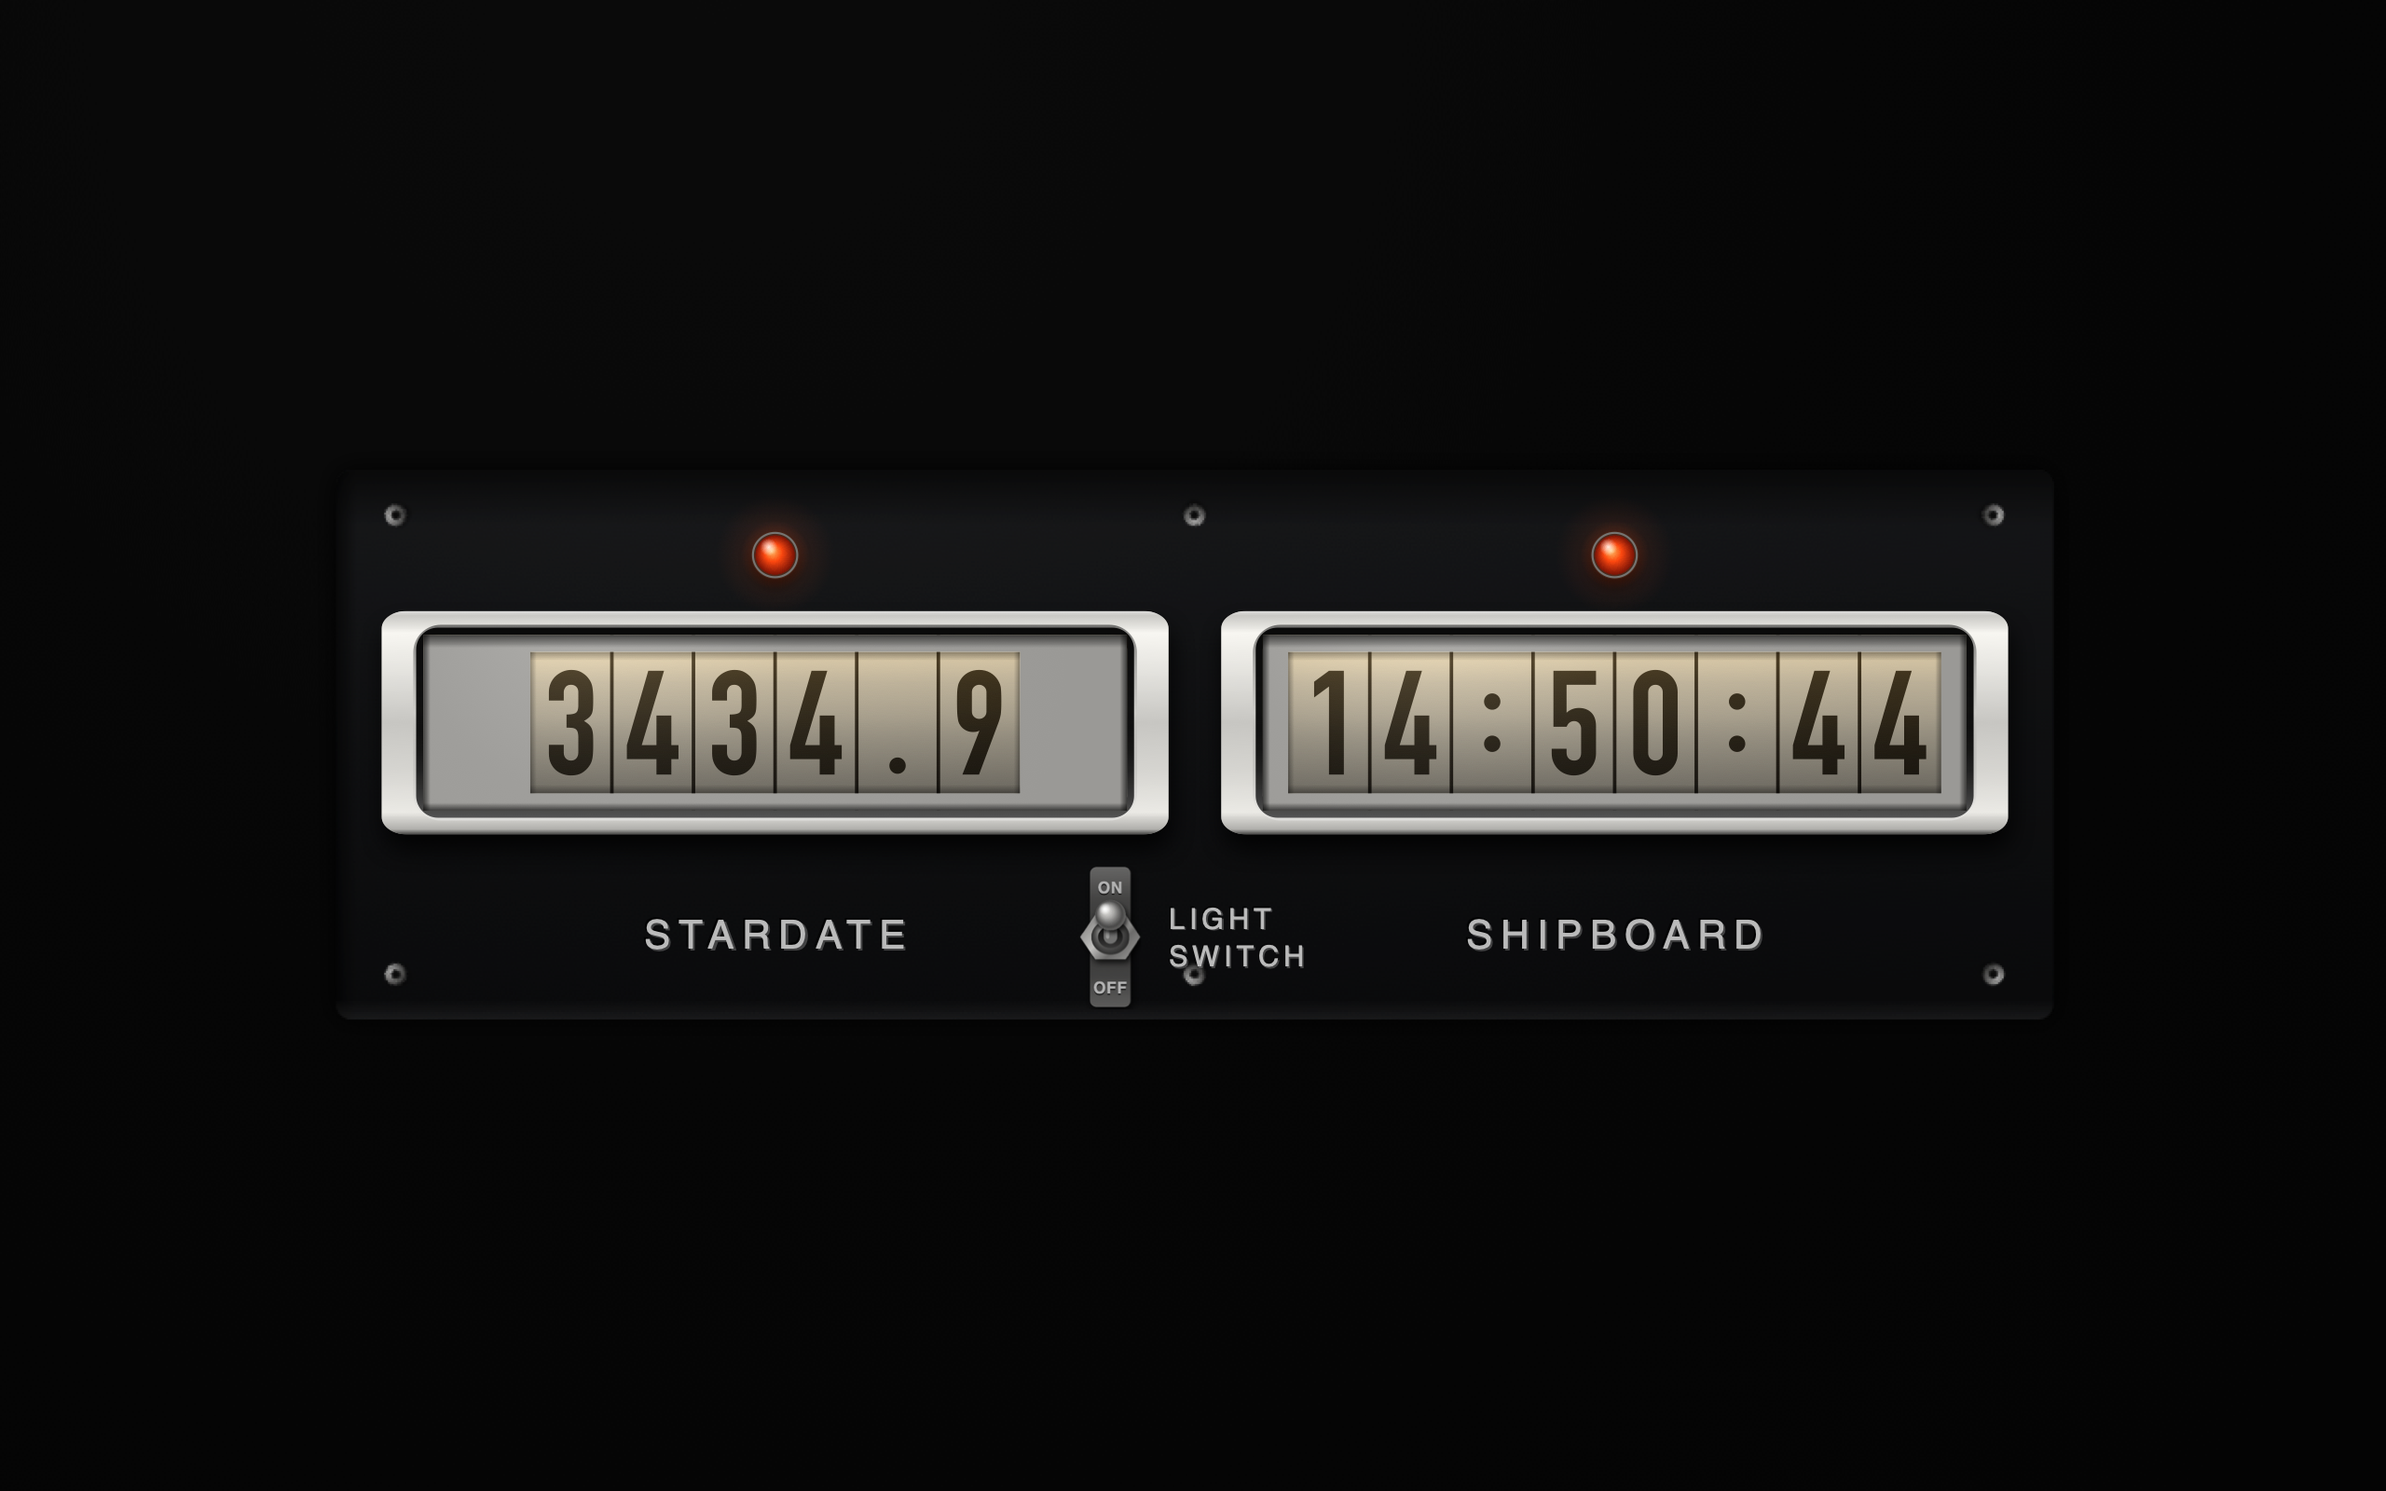
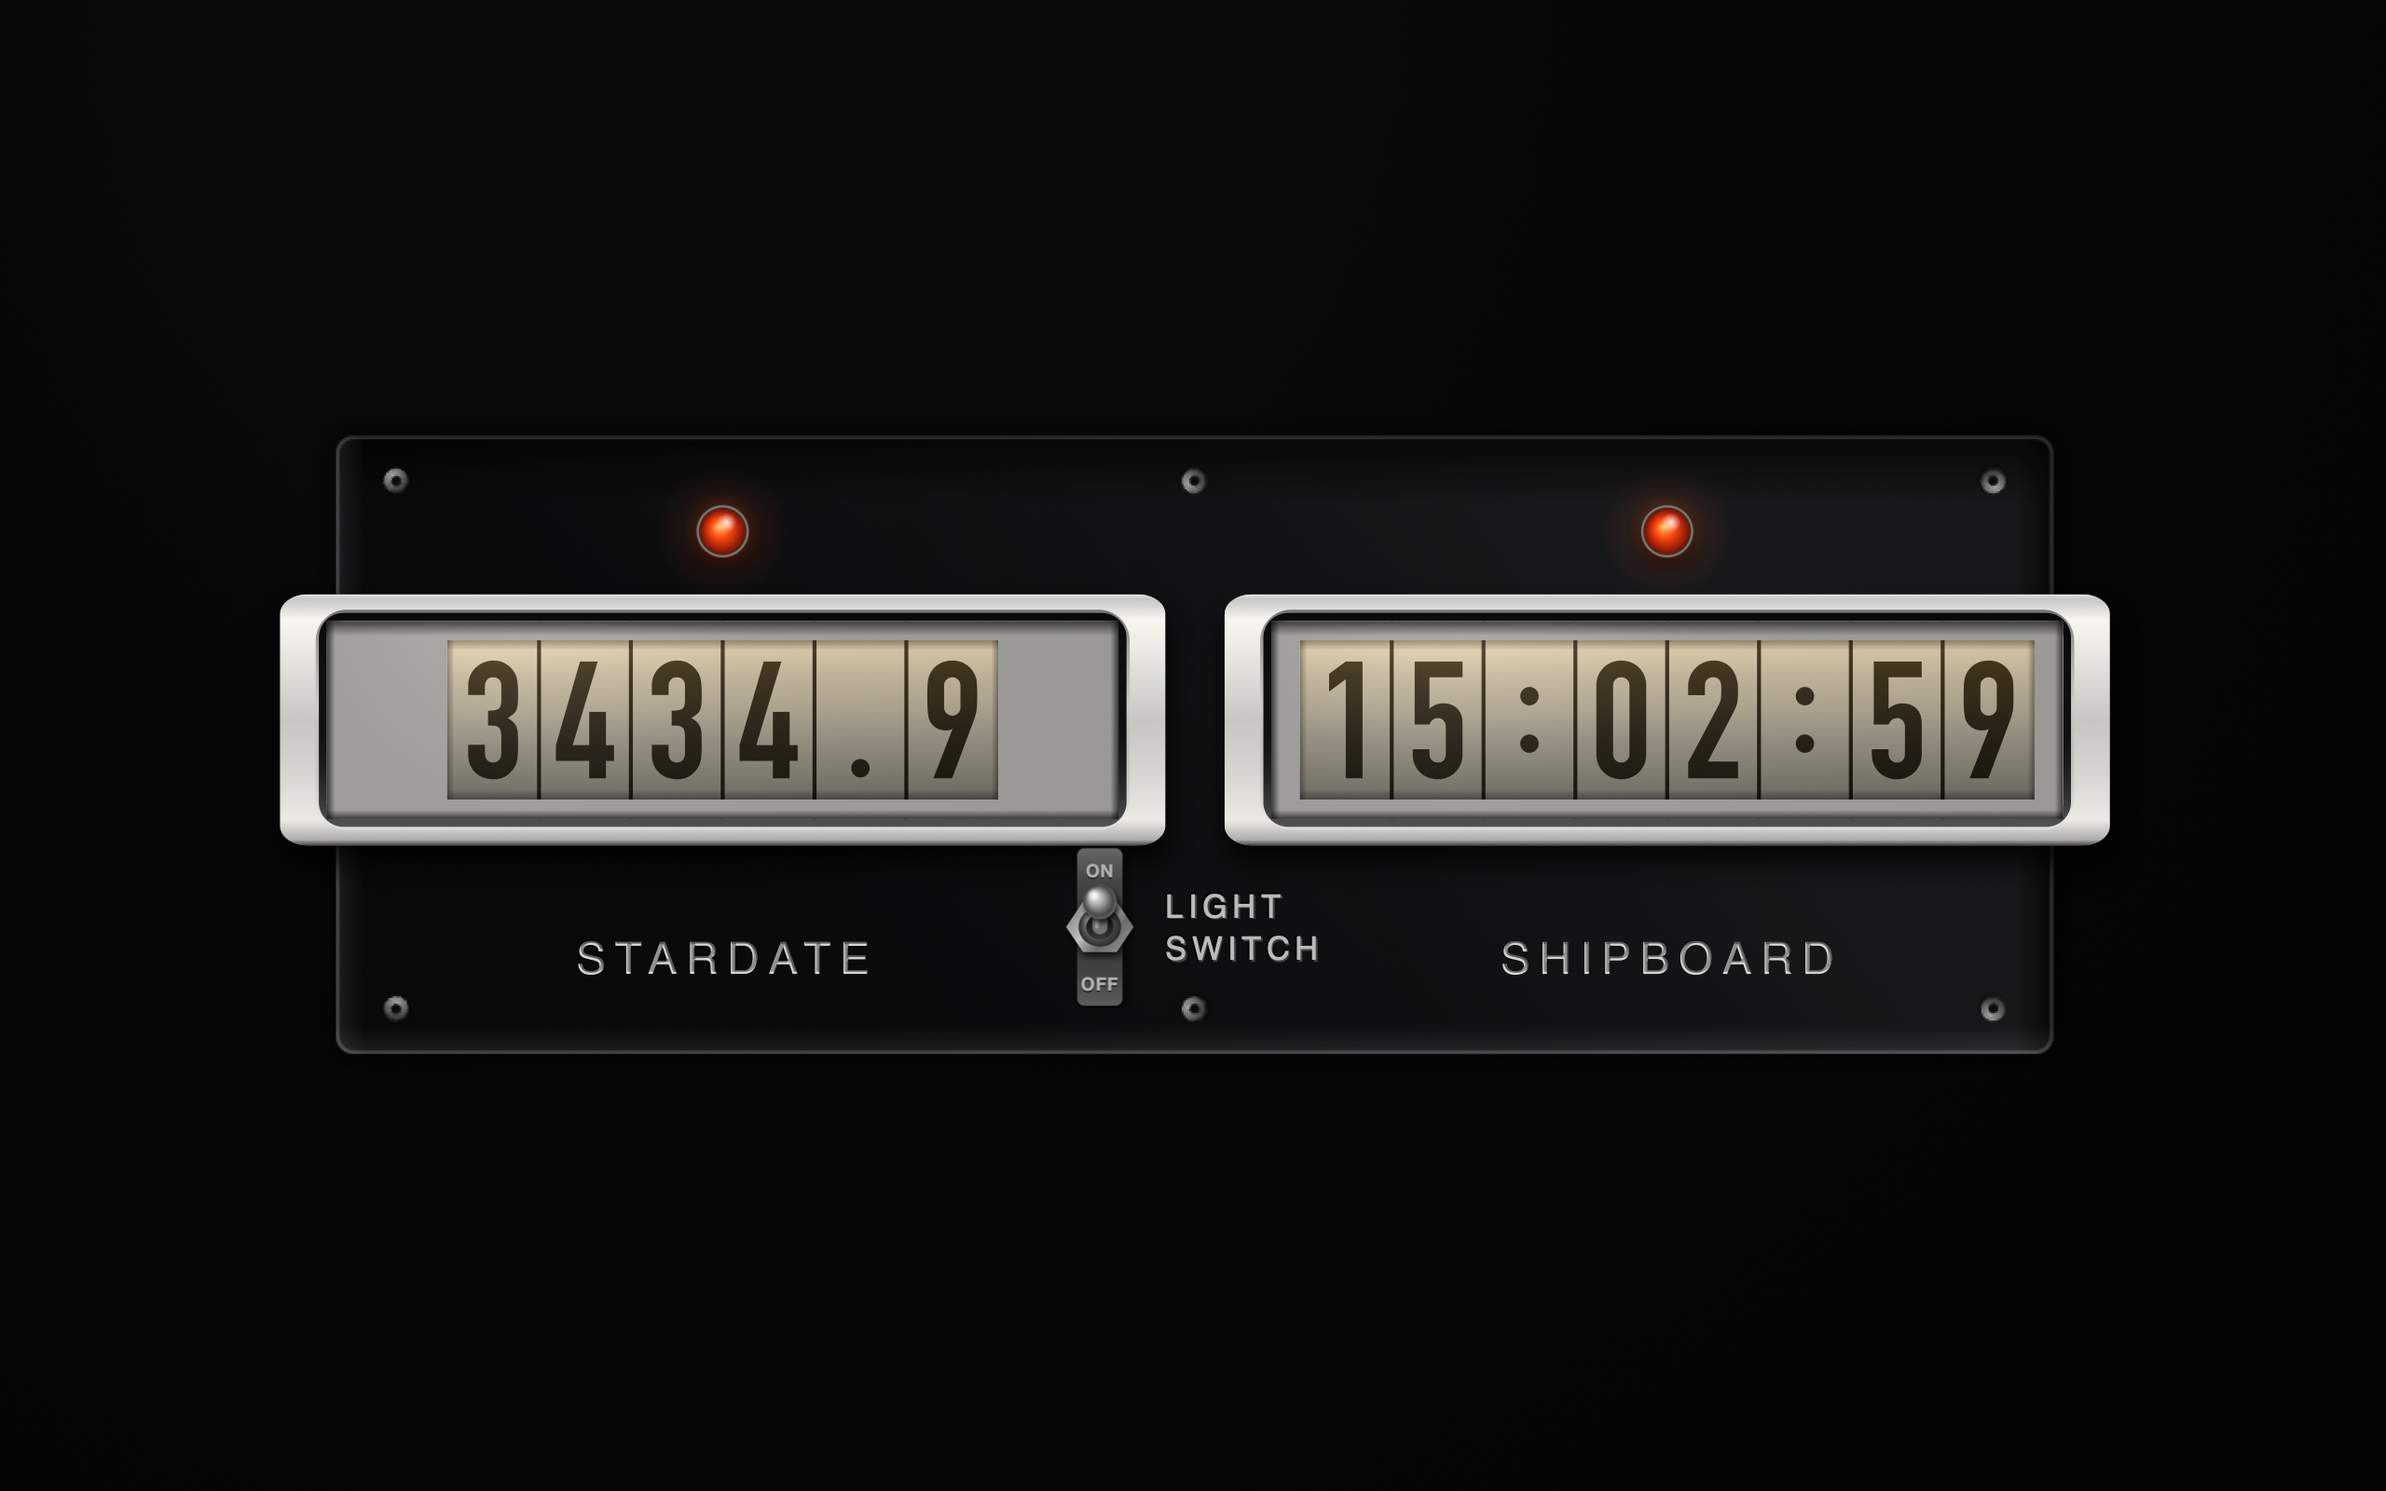
One light direction, and engraving that is actually engraved
The captions were drawn as an offset copy behind the glyphs, which is a drop
shadow - it makes type look raised off the surface, not cut into it. They are
now built as glyph outlines through CoreText and the shading is clipped inside
the letterforms: near wall in shadow, far wall catching light. That is what
reads as recessed.

Light direction is a single pair of constants on CounterChrome, above and
slightly to the right, and everything that shades now reads from it - the plate
face, the recess edges, the screw heads, the lens speculars, the engraving.
Previously the screws were lit from the upper left while the plate was lit from
straight above.

The plate reads as a distinct object now: the surrounding screen overhangs and
shades the top and right insides of the recess while the bottom and left catch
the light, and there is a defined edge round it.

Chronometer plate is taller, and its light switch legend was crossing the
centre screw head on the bottom row - the switch row moved up to clear it.

diff --git a/src/CounterWindow.swift b/src/CounterWindow.swift
@@ -508,6 +508,13 @@ final class CounterWindow {
 
 enum CounterChrome {
 
+    /// One light direction for the whole panel: above and slightly to the
+    /// right. Everything that shades — the plate, the screws, the lens
+    /// speculars, the engraving — reads from this so they cannot disagree.
+    static let lightX: CGFloat = 0.42
+    static let lightY: CGFloat = 0.91
+
+
     private static func grad(_ stops: [(CGFloat, CGColor)]) -> CGGradient? {
         return CGGradient(colorsSpace: CGColorSpaceCreateDeviceRGB(),
                           colors: stops.map { $0.1 } as CFArray,
@@ -637,11 +644,16 @@ enum CounterChrome {
         // Faceplate: dark charcoal, very slightly lit from above.
         // Black anodised aluminium: a cool, nearly neutral dark with a satin
         // sheen, not the warm charcoal of painted steel.
-        if let g = grad([(0.0, CGColor(red: 0.083, green: 0.085, blue: 0.092, alpha: 1)),
-                         (0.5, CGColor(red: 0.055, green: 0.057, blue: 0.063, alpha: 1)),
-                         (1.0, CGColor(red: 0.036, green: 0.037, blue: 0.042, alpha: 1))]) {
-            ctx.drawLinearGradient(g, start: CGPoint(x: plate.minX, y: plate.maxY),
-                                   end: CGPoint(x: plate.minX, y: plate.minY), options: [])
+        if let g = grad([(0.0, CGColor(red: 0.092, green: 0.094, blue: 0.101, alpha: 1)),
+                         (0.5, CGColor(red: 0.056, green: 0.058, blue: 0.064, alpha: 1)),
+                         (1.0, CGColor(red: 0.032, green: 0.033, blue: 0.038, alpha: 1))]) {
+            // Along the light direction rather than straight down.
+            ctx.drawLinearGradient(g,
+                                   start: CGPoint(x: plate.midX + lightX * plate.width * 0.5,
+                                                  y: plate.midY + lightY * plate.height * 0.5),
+                                   end: CGPoint(x: plate.midX - lightX * plate.width * 0.5,
+                                                y: plate.midY - lightY * plate.height * 0.5),
+                                   options: [.drawsBeforeStartLocation, .drawsAfterEndLocation])
         }
         // Satin sheen across the anodised face.
         ctx.setBlendMode(.plusLighter)
@@ -656,20 +668,38 @@ enum CounterChrome {
         }
         ctx.setBlendMode(.normal)
 
-        // The screen overhangs the top of the recess and shades it.
-        if let g = grad([(0, black(0.75)), (1, black(0))]) {
+        // Light comes from above and slightly to the right, so the surrounding
+        // screen overhangs and shades the top and right insides of the recess,
+        // while the bottom and left catch it. That asymmetry is what makes the
+        // plate read as sunk rather than pasted on.
+        let deep = plate.height * 0.11
+        if let g = grad([(0, black(0.82)), (1, black(0))]) {
             ctx.drawLinearGradient(g, start: CGPoint(x: plate.minX, y: plate.maxY),
-                                   end: CGPoint(x: plate.minX, y: plate.maxY - plate.height * 0.10),
-                                   options: [])
-            ctx.drawLinearGradient(g, start: CGPoint(x: plate.minX, y: plate.minY),
-                                   end: CGPoint(x: plate.minX + plate.width * 0.012, y: plate.minY),
-                                   options: [])
-        }
-        if let g = grad([(0, white(0.10)), (1, white(0))]) {
-            ctx.drawLinearGradient(g, start: CGPoint(x: plate.minX, y: plate.minY),
-                                   end: CGPoint(x: plate.minX, y: plate.minY + plate.height * 0.035),
+                                   end: CGPoint(x: plate.minX, y: plate.maxY - deep), options: [])
+            ctx.drawLinearGradient(g, start: CGPoint(x: plate.maxX, y: plate.minY),
+                                   end: CGPoint(x: plate.maxX - deep * 0.55, y: plate.minY),
                                    options: [])
         }
+        if let g = grad([(0, white(0.13)), (1, white(0))]) {
+            ctx.drawLinearGradient(g, start: CGPoint(x: plate.minX, y: plate.minY),
+                                   end: CGPoint(x: plate.minX, y: plate.minY + deep * 0.42),
+                                   options: [])
+            ctx.drawLinearGradient(g, start: CGPoint(x: plate.minX, y: plate.minY),
+                                   end: CGPoint(x: plate.minX + deep * 0.40, y: plate.minY),
+                                   options: [])
+        }
+        ctx.restoreGState()
+
+        // A crisp edge so the plate reads as a separate object against the
+        // screen: catching the light along the top and right, dark below-left.
+        ctx.saveGState()
+        ctx.addPath(CGPath(roundedRect: plate, cornerWidth: r, cornerHeight: r, transform: nil))
+        ctx.clip()
+        ctx.setLineWidth(max(1.5, plate.height * 0.008))
+        ctx.setStrokeColor(white(0.22))
+        ctx.addPath(CGPath(roundedRect: plate.insetBy(dx: 0.5, dy: 0.5),
+                           cornerWidth: r, cornerHeight: r, transform: nil))
+        ctx.strokePath()
         ctx.restoreGState()
 
         drawScrews(ctx, in: plate, inset: screwInset)
@@ -1050,7 +1080,7 @@ enum CounterChrome {
                                    startRadius: 0, endCenter: c, endRadius: r, options: [])
         }
         if let spec = grad([(0, white(0.85)), (1, white(0.0))]) {
-            let sc = CGPoint(x: c.x - r * 0.32, y: c.y + r * 0.40)
+            let sc = CGPoint(x: c.x + lightX * r * 0.42, y: c.y + lightY * r * 0.42)
             ctx.drawRadialGradient(spec, startCenter: sc, startRadius: 0,
                                    endCenter: sc, endRadius: r * 0.44, options: [])
         }
@@ -1059,32 +1089,69 @@ enum CounterChrome {
 
     /// Cut into the metal rather than printed on it: the groove reads dark,
     /// with its far wall catching the light from above-left.
+    /// Glyph outlines for a run of text, so shading can be clipped inside the
+    /// letterforms rather than dropped behind them.
+    static func textPath(_ text: String, font: NSFont, kern: CGFloat) -> CGPath {
+        let attr = NSAttributedString(string: text, attributes: [.font: font, .kern: kern])
+        let line = CTLineCreateWithAttributedString(attr)
+        let out = CGMutablePath()
+        guard let runs = CTLineGetGlyphRuns(line) as? [CTRun] else { return out }
+        for run in runs {
+            let dict = CTRunGetAttributes(run)
+            let key = Unmanaged.passUnretained(kCTFontAttributeName).toOpaque()
+            guard let raw = CFDictionaryGetValue(dict, key) else { continue }
+            let f = unsafeBitCast(raw, to: CTFont.self)
+            let n = CTRunGetGlyphCount(run)
+            var glyphs = [CGGlyph](repeating: 0, count: n)
+            var pos = [CGPoint](repeating: .zero, count: n)
+            CTRunGetGlyphs(run, CFRangeMake(0, n), &glyphs)
+            CTRunGetPositions(run, CFRangeMake(0, n), &pos)
+            for i in 0 ..< n {
+                guard let g = CTFontCreatePathForGlyph(f, glyphs[i], nil) else { continue }
+                let t = CGAffineTransform(translationX: pos[i].x, y: pos[i].y)
+                out.addPath(g, transform: t)
+            }
+        }
+        return out
+    }
+
+    /// Cut into the metal and ink-filled. The shading is clipped *inside* the
+    /// letterforms: a groove lit from above-right has its near wall in shadow
+    /// and its far wall catching light, which is what makes it read as recessed
+    /// rather than as type sitting on the surface with a shadow behind it.
     static func drawEtchedLabel(_ ctx: CGContext, _ text: String,
                                 centeredAt c: CGPoint, size: CGFloat) {
         let font = NSFont(name: "Helvetica", size: size) ?? .systemFont(ofSize: size)
         let kern = size * 0.20
-        // Engraved and ink-filled, which is how a legend on black anodising is
-        // actually made. A bare groove is darker than the surface and vanishes
-        // against it; the ink is what carries the reading, with a shadow above
-        // and a lit lower wall giving it the recess.
-        let passes: [(CGSize, NSColor)] = [
-            (CGSize(width: -size * 0.045, height: size * 0.045),
-             NSColor(white: 0.0, alpha: 0.75)),            // shadowed near wall
-            (CGSize(width: size * 0.05, height: -size * 0.05),
-             NSColor(white: 0.72, alpha: 0.35)),           // lit far wall
-            (.zero, NSColor(white: 0.80, alpha: 0.96)),    // the ink fill
-        ]
-        NSGraphicsContext.saveGraphicsState()
-        NSGraphicsContext.current = NSGraphicsContext(cgContext: ctx, flipped: false)
-        for (off, col) in passes {
-            let a = NSAttributedString(string: text, attributes: [
-                .font: font, .foregroundColor: col, .kern: kern,
-            ])
-            let sz = a.size()
-            a.draw(at: NSPoint(x: c.x - (sz.width - kern) / 2 + off.width,
-                               y: c.y - sz.height / 2 + off.height))
+        let glyphs = textPath(text, font: font, kern: kern)
+        let b = glyphs.boundingBox
+        guard b.width > 0 else { return }
+        var t = CGAffineTransform(translationX: c.x - b.midX, y: c.y - b.midY)
+        guard let path = glyphs.copy(using: &t) else { return }
+
+        let d = size * 0.055
+        ctx.saveGState()
+        ctx.addPath(path)
+        ctx.setFillColor(CGColor(red: 0.80, green: 0.80, blue: 0.79, alpha: 0.96))
+        ctx.fillPath()
+
+        ctx.addPath(path)
+        ctx.clip()
+        // Near wall, shadowed.
+        var s1 = CGAffineTransform(translationX: lightX * d, y: lightY * d)
+        if let p1 = path.copy(using: &s1) {
+            ctx.setFillColor(black(0.55))
+            ctx.addPath(p1)
+            ctx.fillPath(using: .evenOdd)
         }
-        NSGraphicsContext.restoreGraphicsState()
+        // Far wall, catching the light.
+        var s2 = CGAffineTransform(translationX: -lightX * d, y: -lightY * d)
+        if let p2 = path.copy(using: &s2) {
+            ctx.setFillColor(white(0.34))
+            ctx.addPath(p2)
+            ctx.fillPath(using: .evenOdd)
+        }
+        ctx.restoreGState()
     }
 
     /// Left-justified caption, one line per element, as panel legends are set.

diff --git a/src/ChronometerView.swift b/src/ChronometerView.swift
@@ -172,7 +172,7 @@ public class ChronometerView: ScreenSaverView {
         let dy = CGFloat(sin(drift / 131.0 * 2 * .pi)) * amp * 0.6
 
         let plateW = min(bounds.width * 0.72, bounds.height * 2.1)
-        let plateH = plateW * 0.32
+        let plateH = plateW * 0.36
         let p = CGRect(x: bounds.midX - plateW / 2 + dx,
                        y: bounds.midY - plateH / 2 + dy,
                        width: plateW, height: plateH)
@@ -233,7 +233,7 @@ public class ChronometerView: ScreenSaverView {
             let capClear = togS * 0.45
             let groupW = togS + capClear + capW
             let togX = p.midX - groupW / 2 + togS / 2
-            let rowY = p.minY + p.height * 0.150
+            let rowY = p.minY + p.height * 0.205
             Hardware.drawToggle(ctx, at: CGPoint(x: togX, y: rowY), scale: togS)
             CounterChrome.drawLegend(ctx, ["LIGHT", "SWITCH"],
                                      leftAt: CGPoint(x: togX + togS / 2 + capClear, y: rowY),

diff --git a/src/Hardware.swift b/src/Hardware.swift
@@ -64,7 +64,8 @@ enum Hardware {
         let r = side / 2.6                       // head radius, leaving room for the shadow
         let head = CGRect(x: c.x - r, y: c.y - r, width: r * 2, height: r * 2)
         // Light from upper-left, matching every other fitting on the panel.
-        let lx: CGFloat = -0.66, ly: CGFloat = 0.66
+        // Same light as the rest of the panel: above and slightly right.
+        let lx = CounterChrome.lightX, ly = CounterChrome.lightY
         let lit = CGPoint(x: c.x + lx * r, y: c.y + ly * r)
         let dark = CGPoint(x: c.x - lx * r, y: c.y - ly * r)
 
